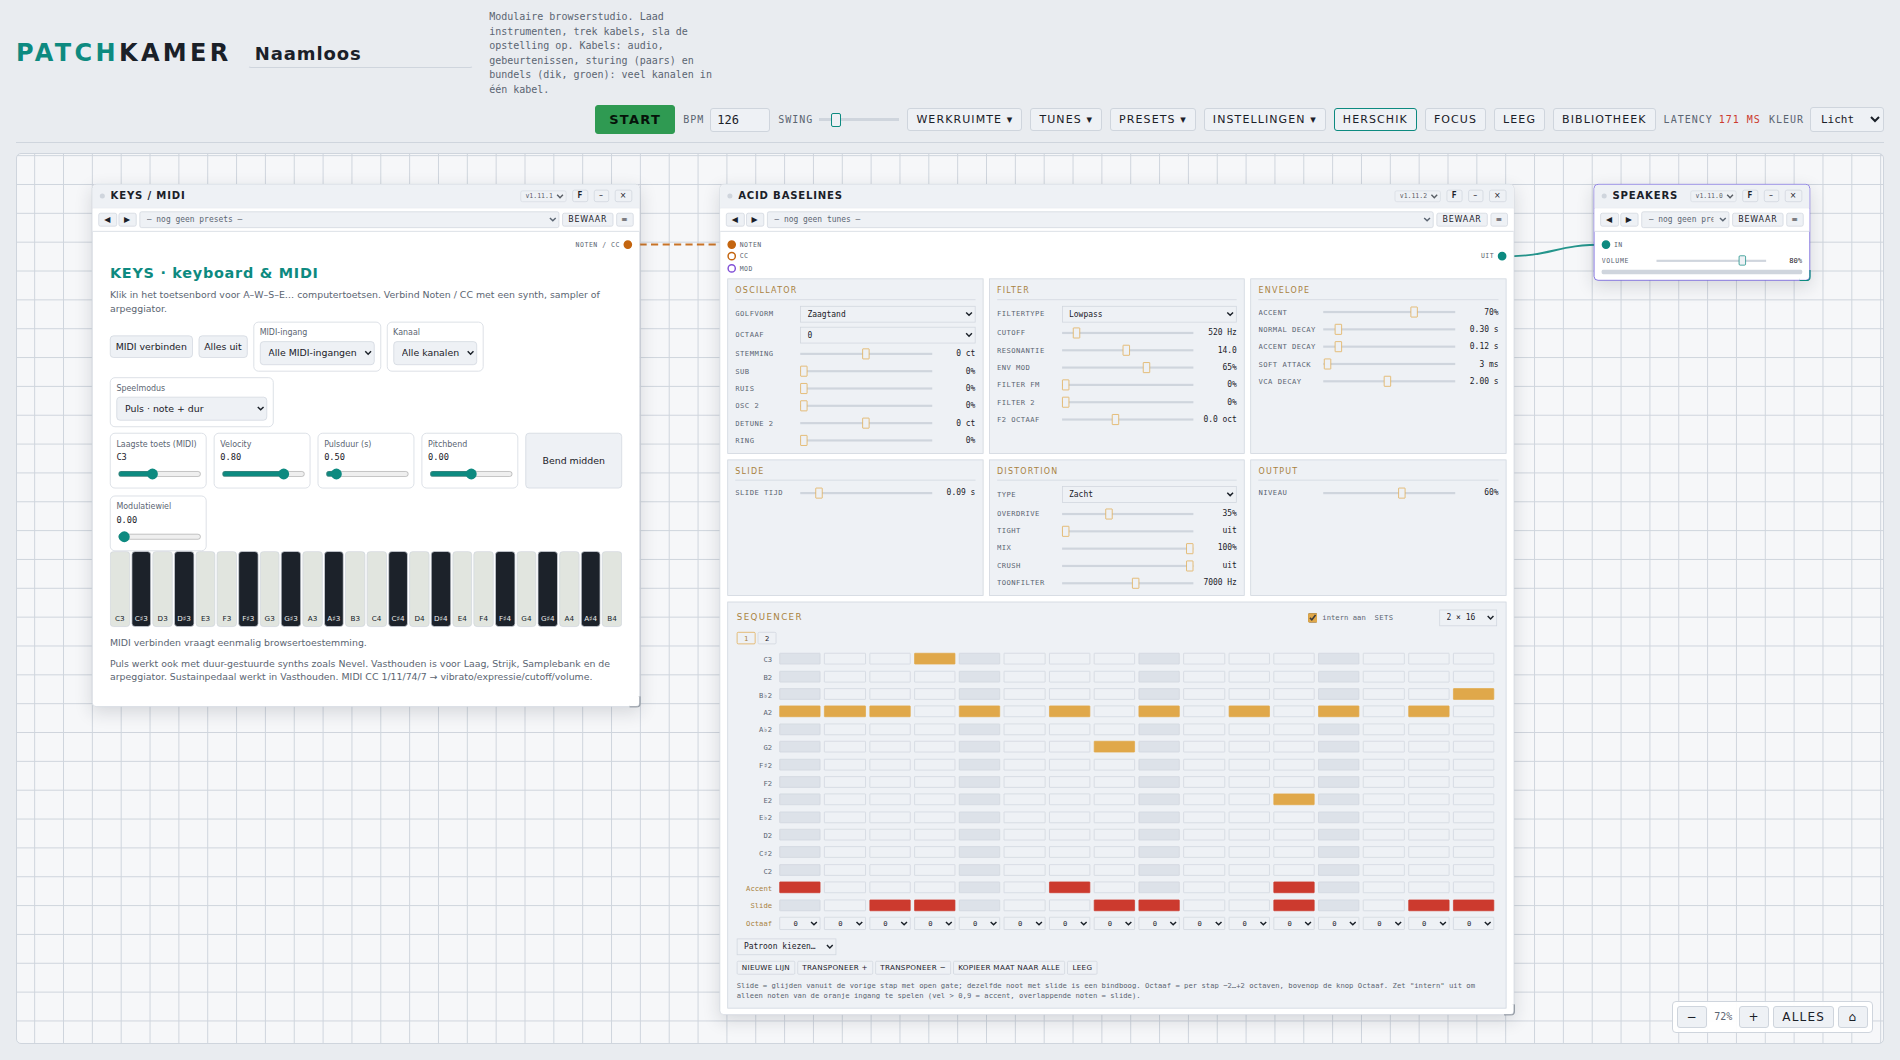
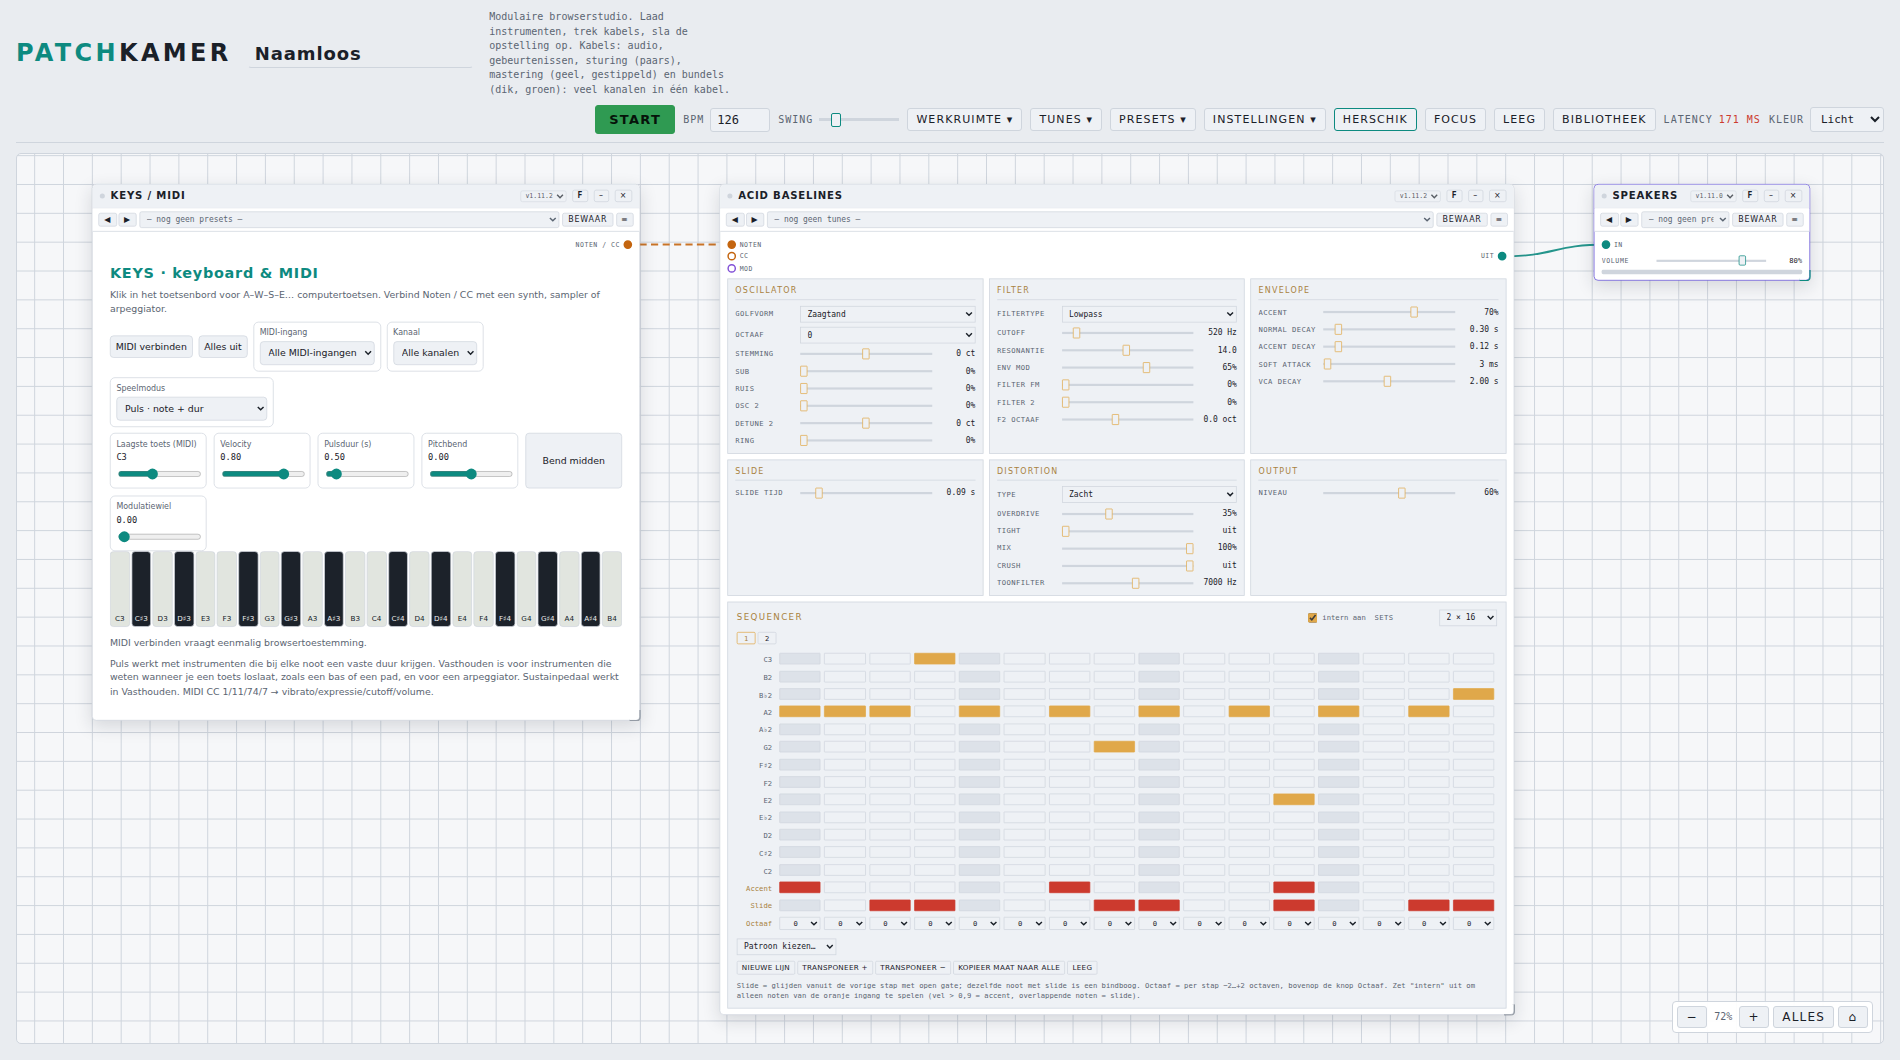
Schermafbeeldingen: script zoekt apparaten op exacte naam en gebruikt Keys / MIDI, alle hostbeelden ververst met de nieuwe introtekst

Changed region(s): [[0.0621, 0.6226, 0.3416, 0.6849], [0.2484, 0.0623, 0.3726, 0.0934]]

diff --git a/docs/tools/make-screenshots.py b/docs/tools/make-screenshots.py
@@ -68,14 +68,14 @@ def shots(browser, lang, OUT, LIB, BASE):
         with pg.expect_file_chooser() as fc: pg.click('#srcAddDir')
         fc.value.set_files(LIB); pg.wait_for_timeout(1500)
     def place(pg, name):
-        pg.locator('.libdev').filter(has=pg.locator('.nm', has_text=name)).locator('button').filter(has_text=PLACE).first.click(); pg.wait_for_timeout(500)
+        pg.locator('.libdev').filter(has=pg.locator('.nm', has_text=re.compile('^\\s*' + re.escape(name) + '\\s*$'))).locator('button').filter(has_text=PLACE).first.click(); pg.wait_for_timeout(500)
     def import_tunes(pg):
         pg.click('#prBtn'); pg.wait_for_timeout(300)
         with pg.expect_file_chooser() as fc: pg.click('#prImport')
         fc.value.set_files(os.path.join(ROOT, 'tunes', 'acid-baselines-classics.patchkamer-tunes.json')); pg.wait_for_timeout(1000)
     def build_patch(pg):
         load_lib(pg)
-        for n in ['Keys', 'Acid Baselines', 'Speakers']: place(pg, n)
+        for n in ['Keys / MIDI', 'Acid Baselines', 'Speakers']: place(pg, n)
         pg.click('#libToggle'); pg.wait_for_timeout(300); pg.click('#arrange'); pg.wait_for_timeout(1200)
         c = pg.locator('.card')
         drag(pg, c.nth(0).locator('[data-port="notes"][data-dir="out"]'), c.nth(1).locator('[data-port="notes"][data-dir="in"]'))
@@ -105,7 +105,7 @@ def shots(browser, lang, OUT, LIB, BASE):
     c = pg.locator('.card').first
     c.evaluate("c=>{const s=[...c.querySelectorAll('select')].find(x=>x.options.length>3&&x.options[0].value===''); s.selectedIndex=1; s.dispatchEvent(new Event('change',{bubbles:true}))}"); pg.wait_for_timeout(600)
     shadow_set(c, 'select.pat', 'Squelch'); pg.wait_for_timeout(300); c.screenshot(path=OUT + '/04-acid-baselines.png'); done(pg)
-    pg = newpage(h=1500, nopicker=True); load_lib(pg); place(pg, 'Keys'); pg.click('#libToggle'); pg.wait_for_timeout(2500)
+    pg = newpage(h=1500, nopicker=True); load_lib(pg); place(pg, 'Keys / MIDI'); pg.click('#libToggle'); pg.wait_for_timeout(2500)
     pg.locator('.card').first.screenshot(path=OUT + '/05-keys.png'); done(pg)
     print('klaar:', lang, len(os.listdir(OUT)), 'afbeeldingen')
 
